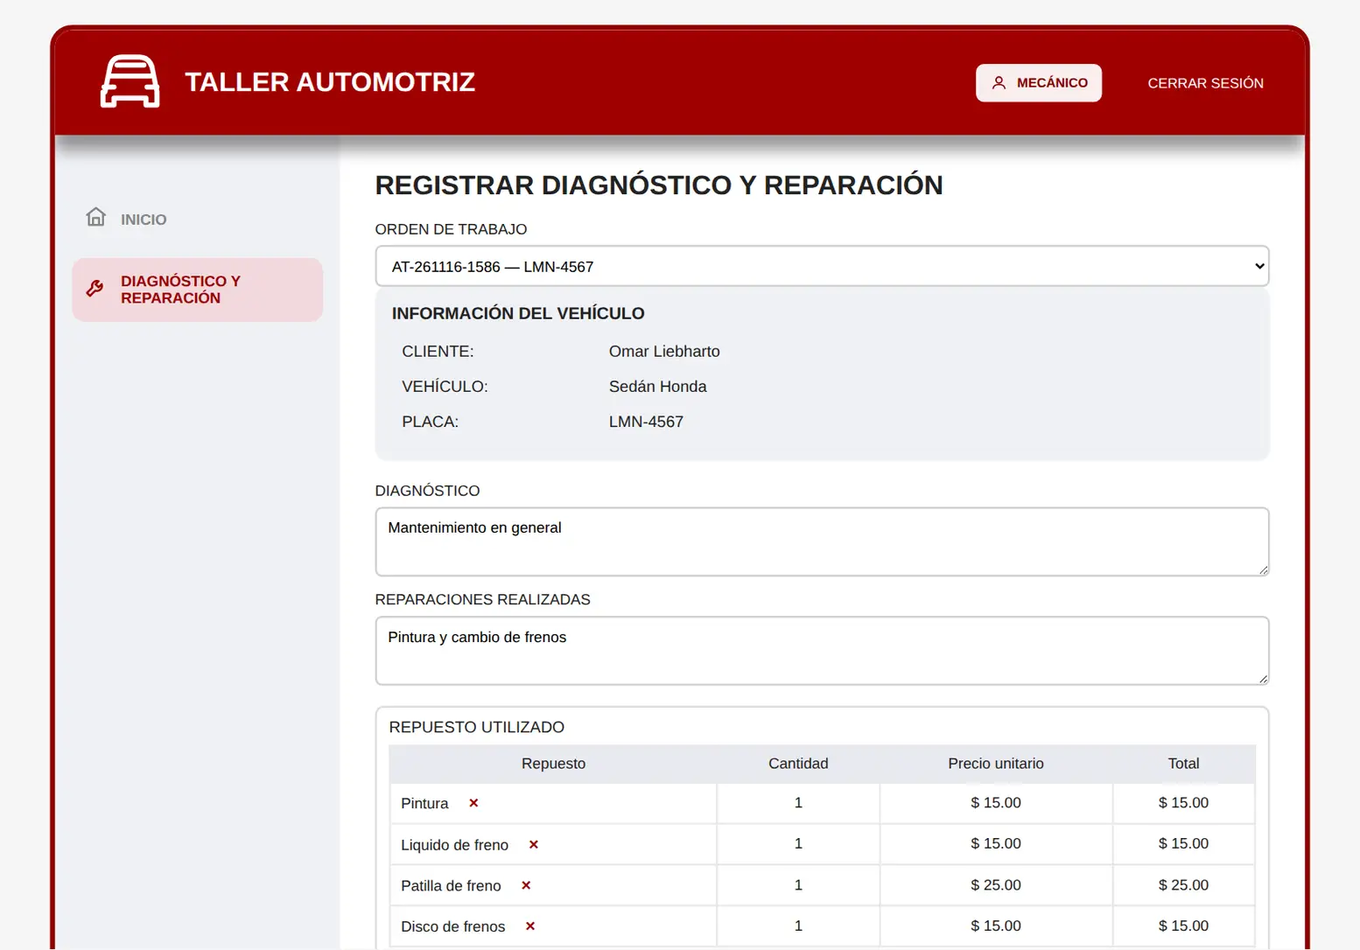
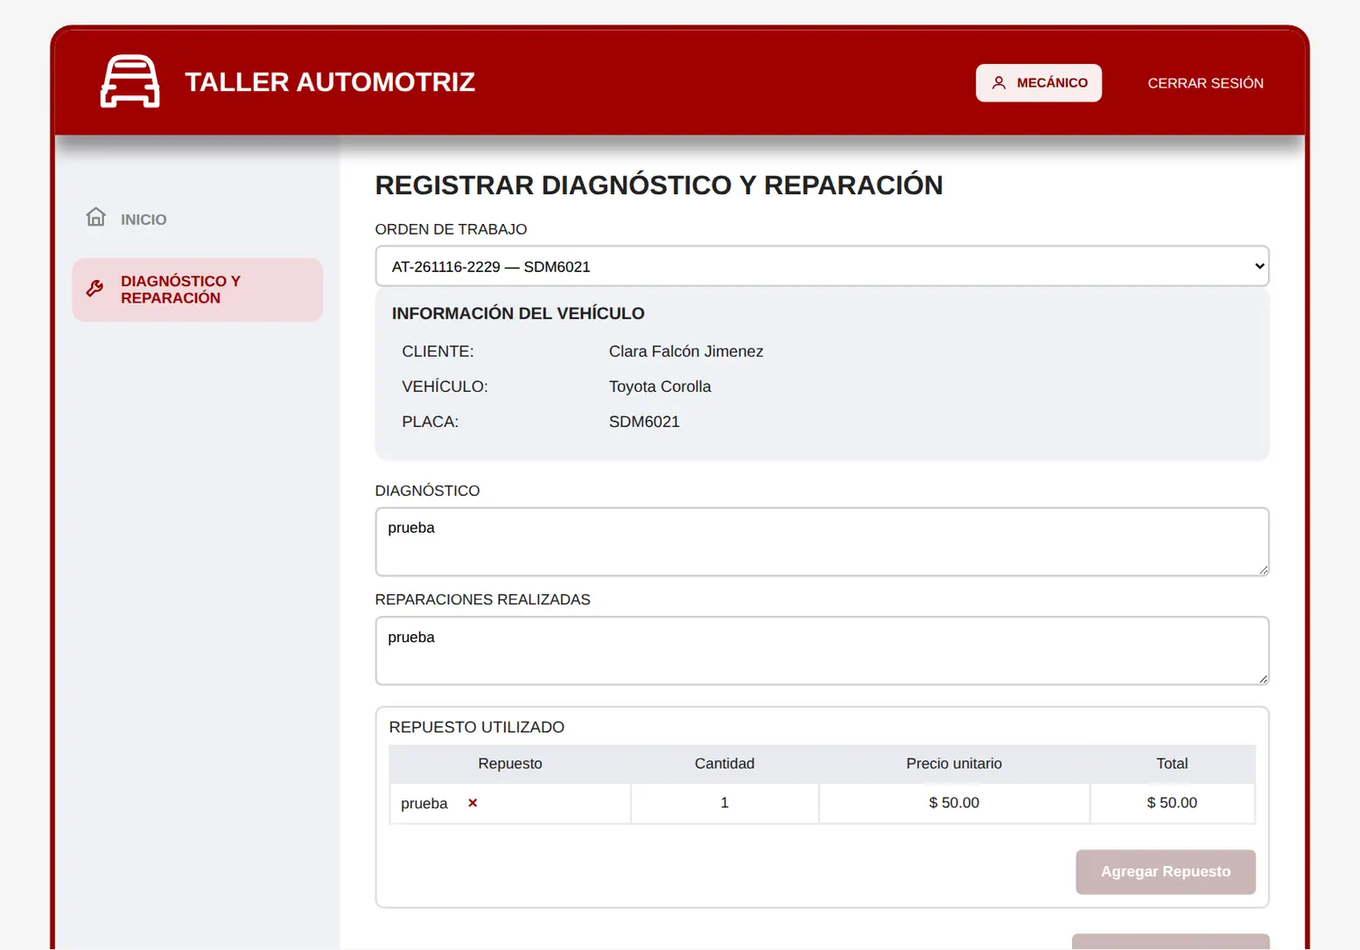
fix(diagnostico): open the most recent order by default
- Match the PHP initial selection and read-only panel; refresh default-state evidence.

diff --git a/web/app/diagnostico/DiagnosticoPanel.tsx b/web/app/diagnostico/DiagnosticoPanel.tsx
@@ -27,7 +27,7 @@ function Campo({ id, etiqueta, placeholder, type = "text", maxLength, min, max, 
 }
 
 export default function DiagnosticoPanel({ ordenes }: { ordenes: Orden[] }) {
-  const [seleccion, setSeleccion] = useState("");
+  const [seleccion, setSeleccion] = useState(ordenes[0]?.id.toString() ?? "");
   const orden = ordenes.find((item) => item.id.toString() === seleccion);
 
   return (
